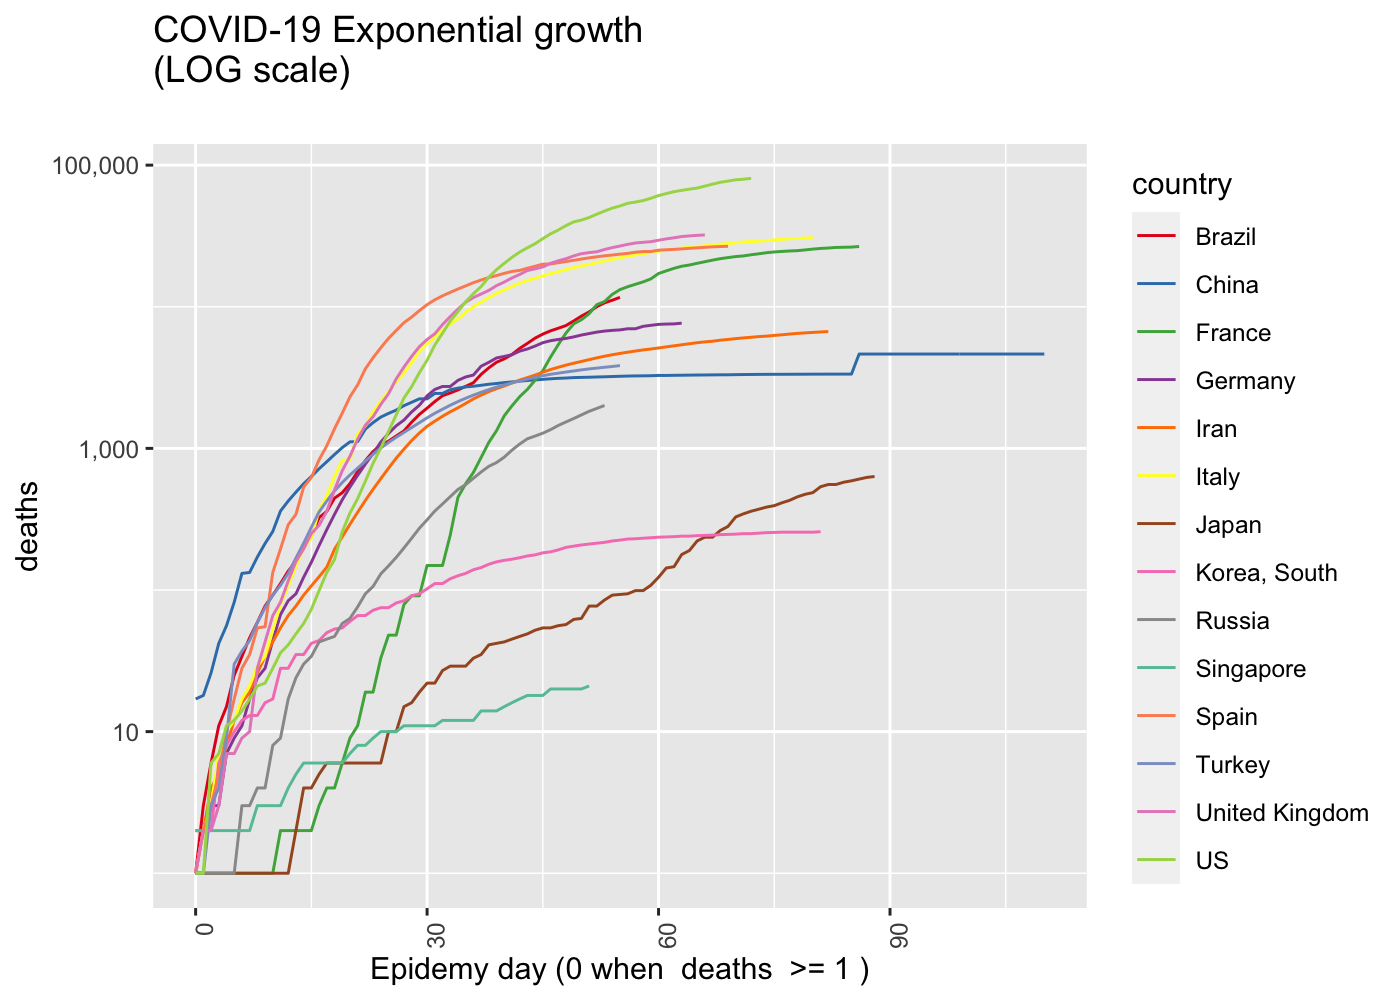
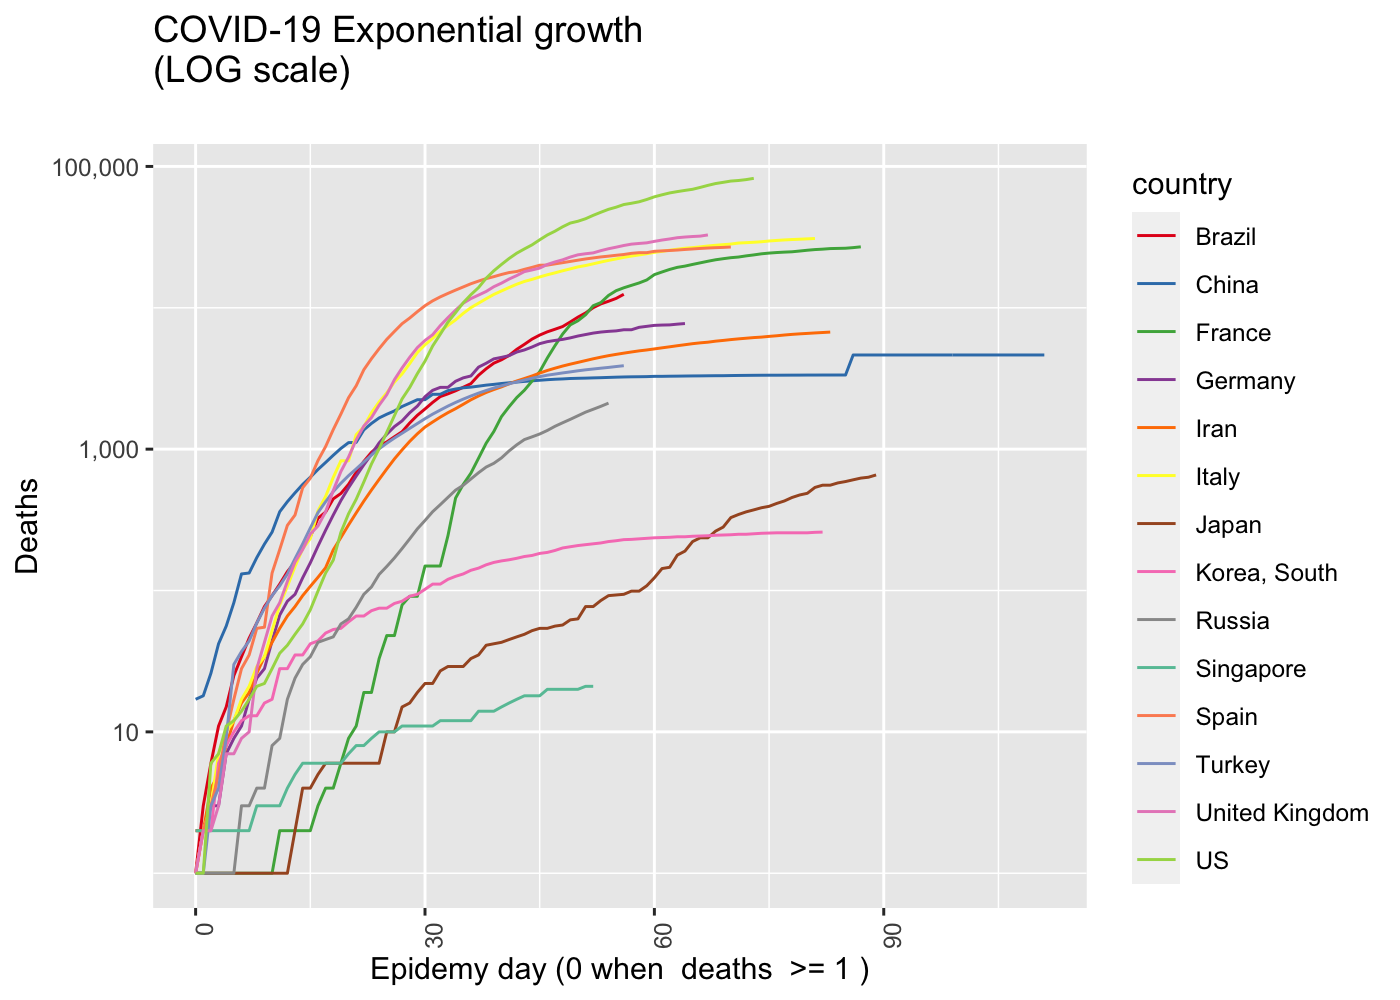
Updated to 2020-05-12

diff --git a/README.md b/README.md
@@ -90,15 +90,15 @@ library(dplyr)
 ``` r
 data.processor <- COVID19DataProcessor$new(force.download = FALSE)
 dummy <- data.processor$setupData()
-#> INFO  [00:20:52.758]  {stage: data loaded}
+#> INFO  [10:19:18.004]  {stage: data loaded}
 dummy <- data.processor$curate()
 #> Warning in countrycode(x, origin = "country.name", destination = "continent"): Some values were not matched unambiguously: MS Zaandam
-#> INFO  [00:20:55.046]  {stage: consolidated}
-#> INFO  [00:20:55.718]  {stage: Starting first imputation}
-#> INFO  [00:20:55.719] Imputation indicator {indicator: confirmed}
-#> INFO  [00:20:55.756] Imputation indicator {indicator: recovered}
-#> INFO  [00:20:55.847] Imputation indicator {indicator: deaths}
-#> INFO  [00:20:56.954]  {stage: Calculating top countries}
+#> INFO  [10:19:20.258]  {stage: consolidated}
+#> INFO  [10:19:20.909]  {stage: Starting first imputation}
+#> INFO  [10:19:20.910] Imputation indicator {indicator: confirmed}
+#> INFO  [10:19:20.958] Imputation indicator {indicator: recovered}
+#> INFO  [10:19:21.055] Imputation indicator {indicator: deaths}
+#> INFO  [10:19:22.318]  {stage: Calculating top countries}
 current.date <- max(data.processor$data$date)
 
 rg <- ReportGeneratorEnhanced$new(data.processor)
@@ -121,27 +121,27 @@ latam.countries <- sort(c("Mexico",
   arrange(desc(confirmed.inc)) %>%
   filter(confirmed >=10))[1:10,]
 #>           country       date rate.inc.daily confirmed.inc confirmed deaths
-#> 1              US 2020-05-11           0.01         18621   1347881  80682
-#> 2          Russia 2020-05-11           0.06         11656    221344   2009
-#> 3          Brazil 2020-05-11           0.04          6895    169594  11653
-#> 4  United Kingdom 2020-05-11           0.02          3883    224332  32141
-#> 5           India 2020-05-11           0.05          3607     70768   2294
-#> 6           Spain 2020-05-11           0.01          3086    227436  26744
-#> 7    Saudi Arabia 2020-05-11           0.05          1966     41014    255
-#> 8        Pakistan 2020-05-11           0.06          1747     32081    706
-#> 9            Iran 2020-05-11           0.02          1683    109286   6685
-#> 10           Peru 2020-05-11           0.02          1515     68822   1961
+#> 1              US 2020-05-12           0.02         21495   1369376  82356
+#> 2          Russia 2020-05-12           0.05         10899    232243   2116
+#> 3          Brazil 2020-05-12           0.05          8620    178214  12461
+#> 4           India 2020-05-12           0.05          3524     74292   2415
+#> 5  United Kingdom 2020-05-12           0.02          3409    227741  32769
+#> 6            Peru 2020-05-12           0.05          3237     72059   2057
+#> 7        Pakistan 2020-05-12           0.07          2255     34336    737
+#> 8          Mexico 2020-05-12           0.05          1997     38324   3926
+#> 9    Saudi Arabia 2020-05-12           0.05          1911     42925    264
+#> 10         Turkey 2020-05-12           0.01          1704    141475   3894
 #>    deaths.inc imputation.confirmed
-#> 1        1156                     
-#> 2          94                     
-#> 3         530                     
-#> 4         211                     
-#> 5          82                     
-#> 6         123                     
-#> 7           9                     
-#> 8          47                     
-#> 9          45                     
-#> 10         72
+#> 1        1674                     
+#> 2         107                     
+#> 3         808                     
+#> 4         121                     
+#> 5         628                     
+#> 6          96                     
+#> 7          31                     
+#> 8         353                     
+#> 9           9                     
+#> 10         53
 ```
 
 ``` r
@@ -151,27 +151,27 @@ latam.countries <- sort(c("Mexico",
   select(country, date, rate.inc.daily, confirmed.inc, confirmed, deaths, deaths.inc, imputation.confirmed) %>%
   arrange(desc(deaths.inc)))[1:10,]
 #>           country       date rate.inc.daily confirmed.inc confirmed deaths
-#> 1              US 2020-05-11           0.01         18621   1347881  80682
-#> 2          Brazil 2020-05-11           0.04          6895    169594  11653
-#> 3          France 2020-05-11           0.00           453    177547  26646
-#> 4  United Kingdom 2020-05-11           0.02          3883    224332  32141
-#> 5           Italy 2020-05-11           0.00           744    219814  30739
-#> 6          Canada 2020-05-11           0.02          1173     71264   5115
-#> 7           Spain 2020-05-11           0.01          3086    227436  26744
-#> 8          Mexico 2020-05-11           0.04          1305     36327   3573
-#> 9          Russia 2020-05-11           0.06         11656    221344   2009
-#> 10        Germany 2020-05-11           0.00           697    172576   7661
+#> 1              US 2020-05-12           0.02         21495   1369376  82356
+#> 2          Brazil 2020-05-12           0.05          8620    178214  12461
+#> 3  United Kingdom 2020-05-12           0.02          3409    227741  32769
+#> 4          Mexico 2020-05-12           0.05          1997     38324   3926
+#> 5          France 2020-05-12           0.00           802    178349  26994
+#> 6          Canada 2020-05-12           0.02          1155     72419   5300
+#> 7         Ecuador 2020-05-12           0.03           910     30419   2327
+#> 8           Spain 2020-05-12           0.00           594    228030  26920
+#> 9           Italy 2020-05-12           0.01          1402    221216  30911
+#> 10          India 2020-05-12           0.05          3524     74292   2415
 #>    deaths.inc imputation.confirmed
-#> 1        1156                     
-#> 2         530                     
-#> 3         263                     
-#> 4         211                     
-#> 5         179                     
-#> 6         124                     
-#> 7         123                     
-#> 8         108                     
-#> 9          94                     
-#> 10         92
+#> 1        1674                     
+#> 2         808                     
+#> 3         628                     
+#> 4         353                     
+#> 5         348                     
+#> 6         185                     
+#> 7         182                     
+#> 8         176                     
+#> 9         172                     
+#> 10        121
 ```
 
 ``` r
@@ -197,7 +197,7 @@ rg$ggplotCountriesLines(included.countries = latam.countries, countries.text = "
 
 ``` r
 
-rc$ggplotComparisonExponentialGrowth(included.countries = latam.countries, field = "deaths", y.label = "deaths", min.cases = 1)
+rc$ggplotComparisonExponentialGrowth(included.countries = latam.countries, field = "deaths", y.label = "Deaths", min.cases = 1)
 ```
 
 <img src="man/figures/README-unnamed-chunk-5-4.png" width="100%" />
@@ -217,7 +217,7 @@ rc$ggplotComparisonExponentialGrowth(included.countries = international.countrie
 <img src="man/figures/README-unnamed-chunk-6-2.png" width="100%" />
 
 ``` r
-rc$ggplotComparisonExponentialGrowth(included.countries = international.countries, field = "deaths", y.label = "deaths", min.cases = 1)
+rc$ggplotComparisonExponentialGrowth(included.countries = international.countries, field = "deaths", y.label = "Deaths", min.cases = 1)
 ```
 
 <img src="man/figures/README-unnamed-chunk-6-3.png" width="100%" />
